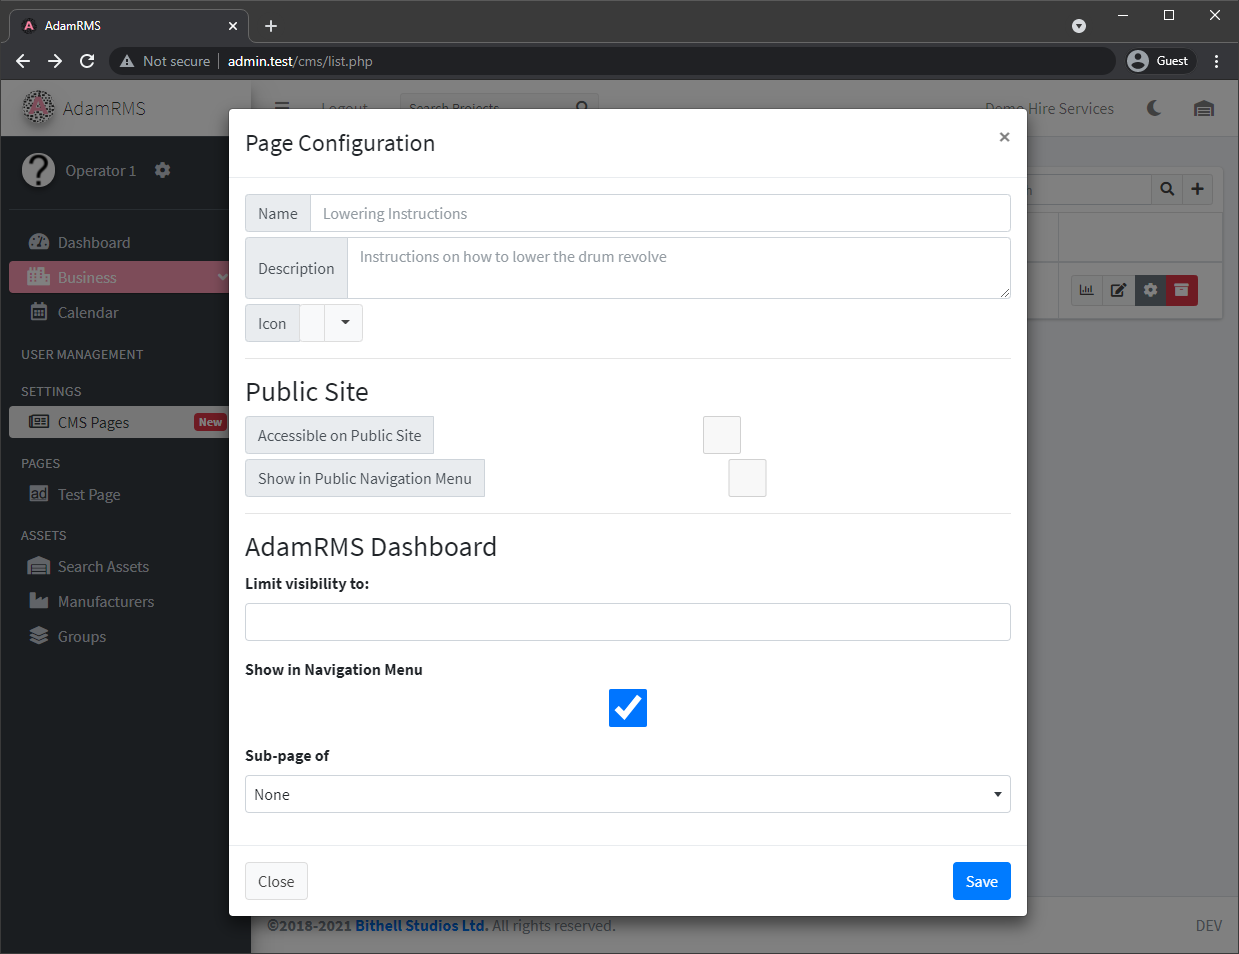
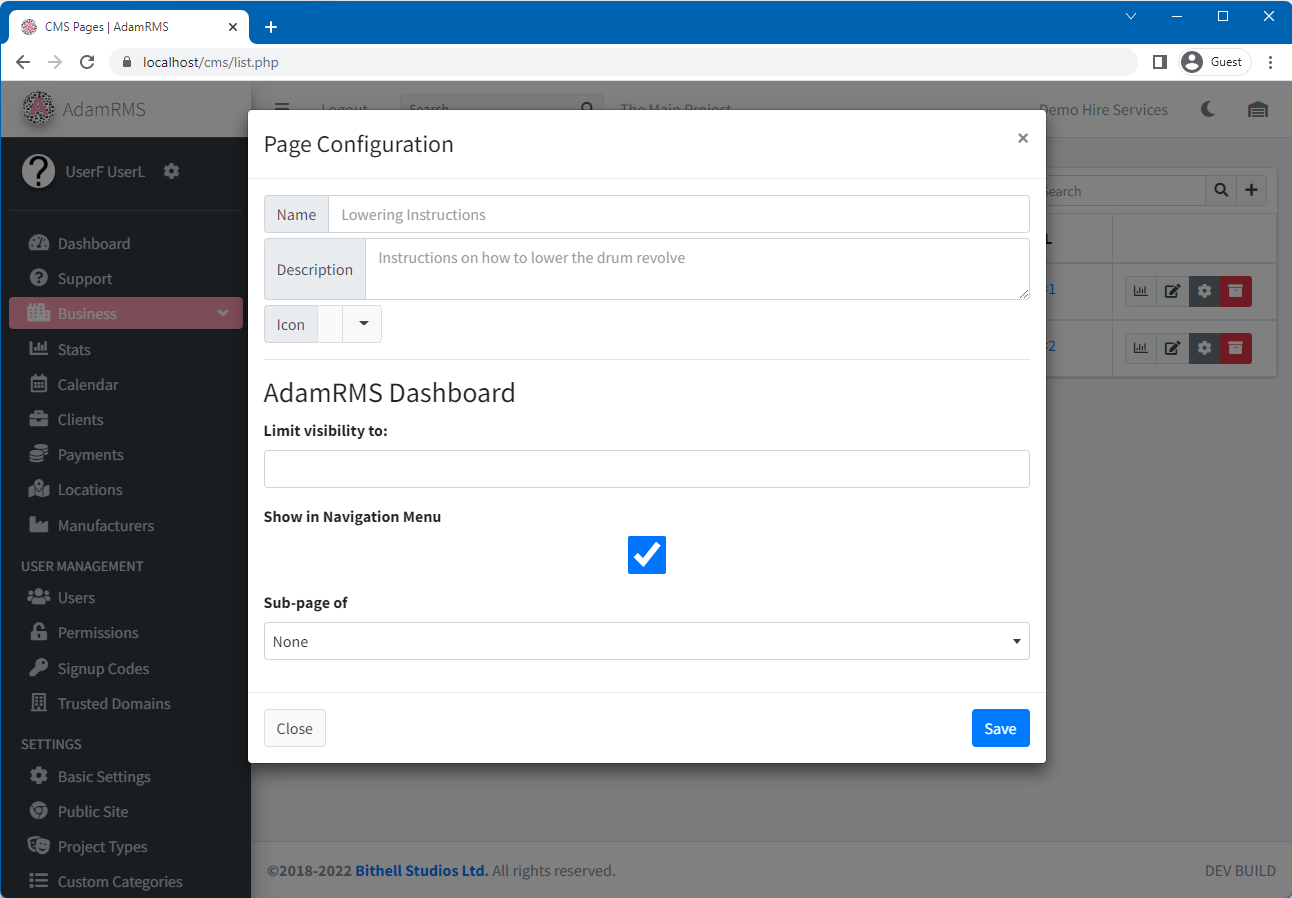
Update public site information (#30)

diff --git a/docs/user-guide/business/business-settings.md b/docs/user-guide/business/business-settings.md
@@ -40,7 +40,7 @@ The date of each label can be any date in the required week. If two labels for t
 
 ## Public Site
 ---
-AdamRMS supports a public site for each business, to allow information about business assets to be shared publicly.  
+AdamRMS supports provides a number of widgets to business, to allow information about business assets to be shared publicly.  
 For example, this can be used to show what assets are available for hire.
 
 :::note Public site permissions  
@@ -51,12 +51,12 @@ For example, this can be used to show what assets are available for hire.
 ![Public site settings](/img/tutorial/businesses/settings-publicSite.png)
 *AdamRMS public site settings*
 
-The public site is an optional addon, but requires AdamRMS support to set up. Please get in touch if you would like to use this feature.
+Currently, there are two widgets available:
 
-You can enable different pieces of information to be shared from the Public site settings page. The homepage can also be edited from this page, and supports HTML code editing. You can also provide a header image that is shown on each page.
+- **Asset List and Seearch** - This shows a list of assets that are available for hire.
+- **Crew Vacancies** - This shows a list of crew roles that are currently vacant.
 
-There is also support for files to be hosted on your public site. This can be used for business brochures and venue information.
-
+You can enable different pieces of information to be shared from the Public site settings page for each of these widgets.
 ## Project Types
 ---
 Project types are a way to change what elements of [Projects](./../projects/overview) are available to each project. AdamRMS provides a “Full Project” by default which has all elements enabled.

diff --git a/docs/user-guide/cms/cms-pages.md b/docs/user-guide/cms/cms-pages.md
@@ -25,9 +25,6 @@ From the business settings section, pages can be created. A CMS page has the fol
 - Name
 - Page description
 - A [Font Awesome](https://fontawesome.com/v5.15/icons?d=gallery&p=1&m=free) Icon
-- Public Site Visibility
-  - Accessible on the public site
-  - Shown on navigation menu
 - AdamRMS visibility
   - Limit visibility to a specific Role Group
   - Show on RMS sidebar
